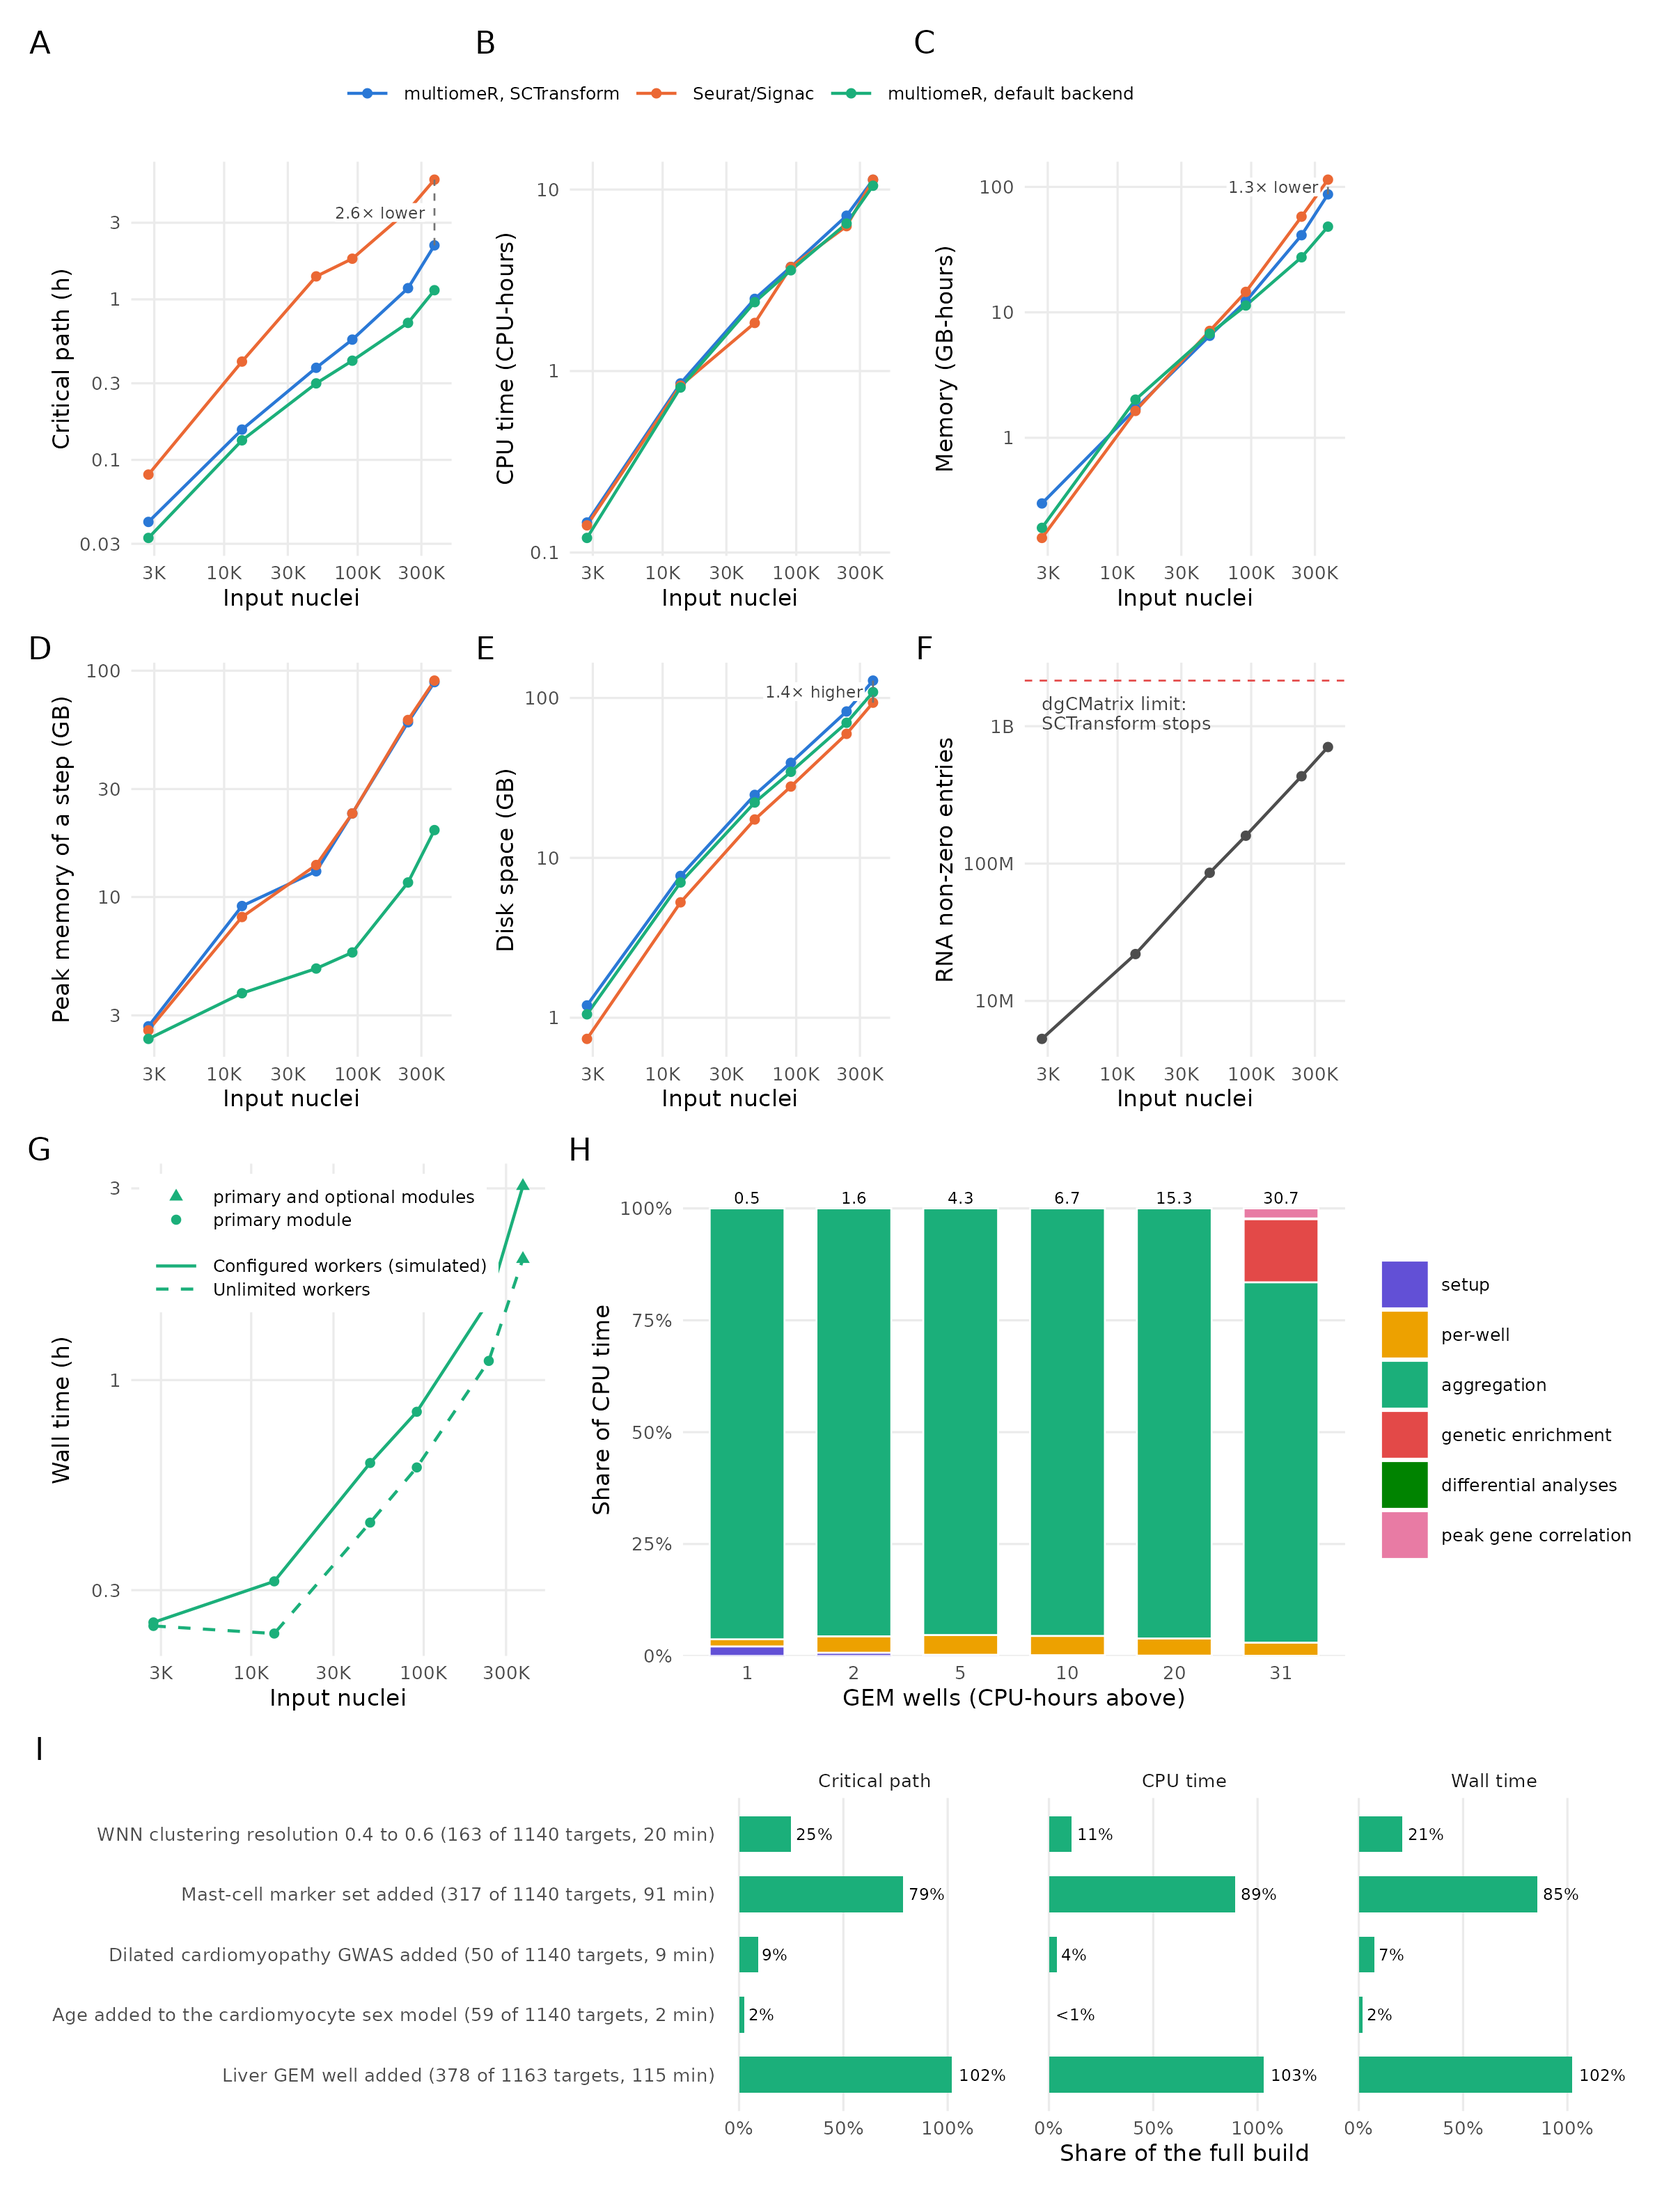
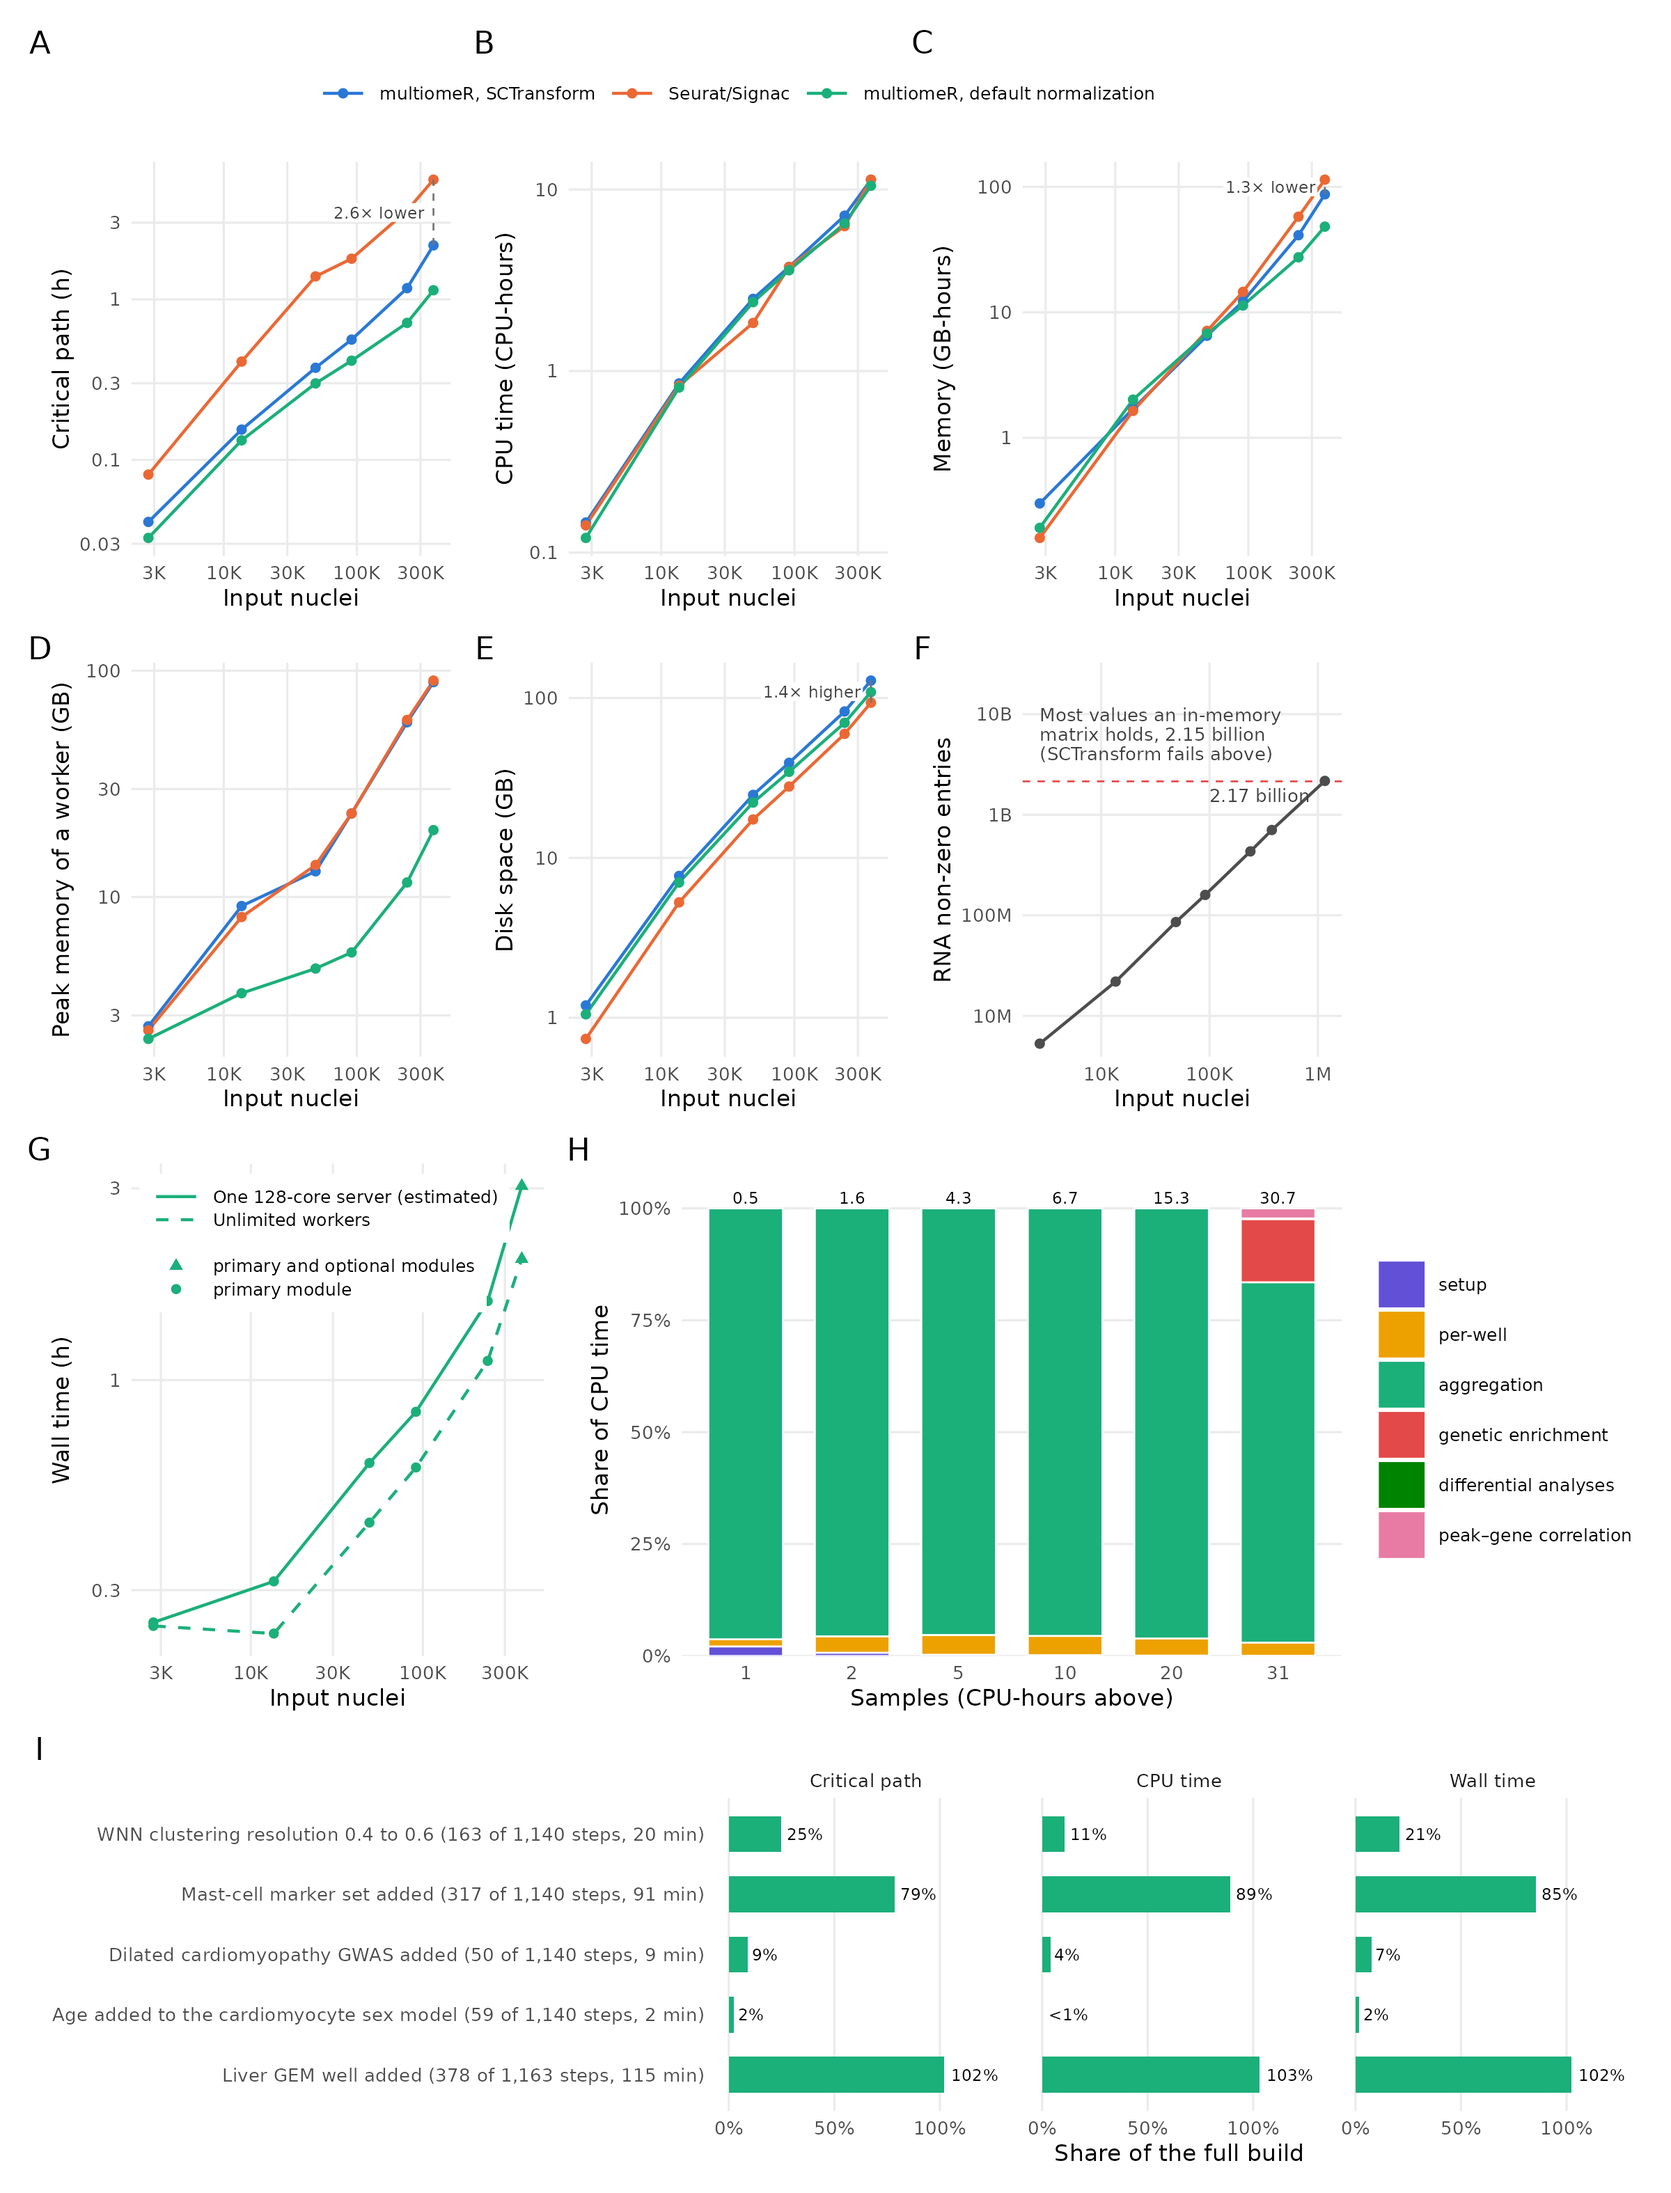
Relabel S2 for the manuscript and show the 91-well size in panel F
The legend calls multiomeR's default the default normalization, panel G's
simulated wall time one 128-core server (estimated), panel H's axis samples,
with peak-gene correlation spelled with an en dash, and panel I's bars count
steps with thousands separators. Panel F reads a new Table S6 file,
benchmark_sizes.tsv, from Cell Ranger metrics alone, so its 91-well point
(2.17 billion RNA non-zero entries) shows before the measured runs finish; its
label states the in-memory matrix limit, 2.15 billion. The two 91-well
genetic-enrichment steps rebuilt with 60 GB requests carry that request in
benchmark_allocations.tsv. S2.png is rerendered from the preliminary tables.

contained_target_breaking: supplementary_table_S6

diff --git a/pipeline_manuscript_figures/README.md b/pipeline_manuscript_figures/README.md
@@ -19,7 +19,9 @@ below `results/`:
   saves: `data/seurat_signac_comparison_resources.tsv` compares multiomeR with a
   conventional Seurat/Signac workflow on `comparison_1x` to `comparison_31x`;
   `data/benchmark_sizing.tsv` and `data/benchmark_sizing_stages.tsv` measure
-  multiomeR with its defaults on `sizing_1x` to `sizing_91x`;
+  multiomeR with its defaults on `sizing_1x` to `sizing_91x`, whose nuclei, RNA
+  non-zero entries, ATAC fragments and input files `data/benchmark_sizes.tsv`
+  gives;
   `data/benchmark_revisions.tsv` measures what five revisions of `revision_31x`
   rerun; `data/benchmark_simulation_check.tsv` compares the simulated wall
   time with measured runs; and `data/benchmark_worker_attribution.tsv` gives the
@@ -130,8 +132,8 @@ RNA embeddings. These measurements come from the store's executions before the
 benchmark runs (`store_before_runs.tsv.gz`), so later rebuilds of shared
 targets leave them unchanged.
 
-A third line measures the same multiomeR result with its default backend,
-BPCells_native, which computes Pearson residuals on disk: `sizing_1x` to
+A third line measures the same multiomeR result with its default normalization,
+the BPCells_native backend, which computes Pearson residuals on disk: `sizing_1x` to
 `sizing_31x` repeat the comparison aggregations with only that setting changed,
 and `sizing_91x` adds 60 ENCODE multiome series, for 1.16 million nuclei. Its
 per-well steps are those of the comparison aggregations. SCTransform cannot run
@@ -159,7 +161,13 @@ column states: the ATAC motif-family marker volcano plot, which facets by ATAC
 cell type with up to 20 repelled labels per direction and facet, does not scale
 to about a hundred cell types. Its worker crashed three times and a retry ran
 3.9 h without finishing, against 62 s at 31 wells. This known limit of one QC
-plot is left out of the totals rather than counted as zero.
+plot is left out of the totals rather than counted as zero. At this size, 14 QC
+plots also exceeded ragg's 50,000-pixel limit, and a later driver run rebuilt
+the 17 failed targets with plot sizes clamped in `save_plots_structured()`. That
+clamp is a benchmark-only change, not on the main branch. Two genetic-enrichment
+steps, `chromVAR_locus_contribution_tibble` and
+`chromVAR_variant_contribution_detail_plots`, exceeded the light workers' 48 GB
+limit and were rebuilt with 60 GB requests, which their allocations record.
 
 ### Revisions
 
@@ -175,10 +183,7 @@ its recorded targets take the dependencies of the same targets of another well.
 Each run's targets, critical path, CPU time and simulated wall time are
 compared with the full build's. The revision runs and `sizing_91x` ran on
 node-local copies of the store that were not copied back, so their records hold
-their only measurements. At 1.16 million nuclei, 14 QC plots exceeded ragg's
-50,000-pixel limit, so the last `sizing_91x` driver run rebuilt the 17 failed
-targets with plot sizes clamped in `save_plots_structured()`; that clamp is a
-benchmark-only change, not on the main branch. A script without saved intermediates reruns
+their only measurements. A script without saved intermediates reruns
 everything, and careful manual checkpointing narrows that gap.
 
 ### Measures
@@ -191,8 +196,8 @@ everything, and careful manual checkpointing narrows that gap.
   that finds the file unchanged records no build of it. The conventional chain's critical path is the sum of its runtimes, as
   when a script runs its steps one after another.
 - **Simulated wall time:** the same runtimes scheduled on the workers of
-  `configuration_dev/crew_controllers.R`: 16 light, 6 heavy, one large and one
-  huge worker, each target routed to the tier its RAM request selects. A target
+  `configuration_dev/crew_controllers.R`, which fit one 128-core server: 16
+  light, 6 heavy, one large and one huge worker, each target routed to the tier its RAM request selects. A target
   is ready once its upstream targets have finished, and each tier's workers take
   ready targets in the order they became ready. Each target also takes 2 s
   for dispatching, loading and saving (`BENCHMARK_TASK_OVERHEAD_SECONDS`), fitted
@@ -207,8 +212,8 @@ everything, and careful manual checkpointing narrows that gap.
   `sizing_small`, `sizing_91x` and `revision_5` are left out of the check,
   because each spans several driver runs: after a failed download and a rebuild
   of a truncated annotation, after fixes for empty marker levels, nuclei without
-  counts and nuclei without chromVAR scores, and after the fix for empty marker
-  levels.
+  counts and nuclei without chromVAR scores and after raising two steps' memory
+  requests, and after the fix for empty marker levels.
 - **CPU time and memory:** each target's runtime times its job's mean sampled
   CPU use and unreclaimable memory, which leaves out page cache. Jobs too short
   to be sampled get the median of the sampled jobs measured with them. Memory
